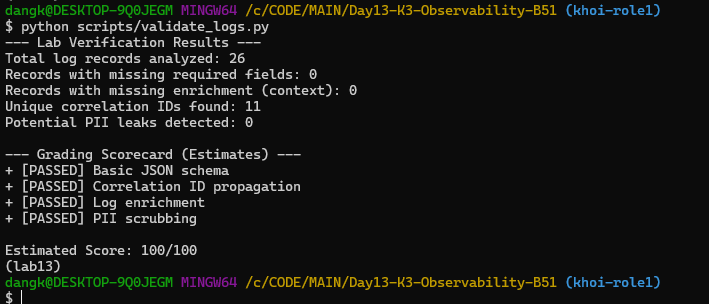
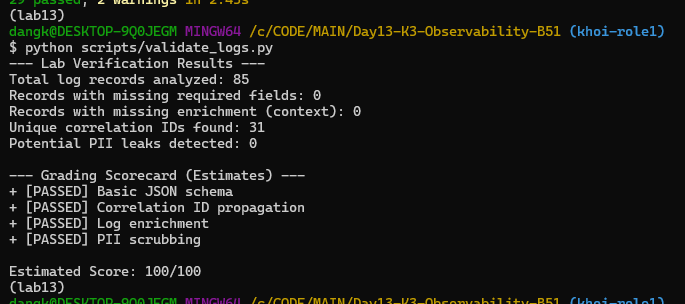
docs(evidence): refresh final CP1 proof

Changed region(s): [[0.0, 0.0, 0.981, 1.0]]

diff --git a/submission/REPORT.md b/submission/REPORT.md
@@ -17,7 +17,7 @@
 ## 3. Logging và tracing
 
 - Evidence correlation ID: [Response headers và log metadata](evidence/cp1-a-correlation-headers.jpg); [Langfuse trace metadata](evidence/cp1-langfuse-correlation-traces.json)
-- Evidence PII redaction: [Log JSONL có correlation ID, metadata và chuỗi REDACTED](evidence/cp1-correlation-pii-redaction.jsonl)
+- Evidence PII redaction: [Ảnh log đã redact](evidence/cp1-pii-redaction.png); [Log JSONL](evidence/cp1-correlation-pii-redaction.jsonl)
 - Evidence trace waterfall:
 - Giải thích một span đáng chú ý:
 
